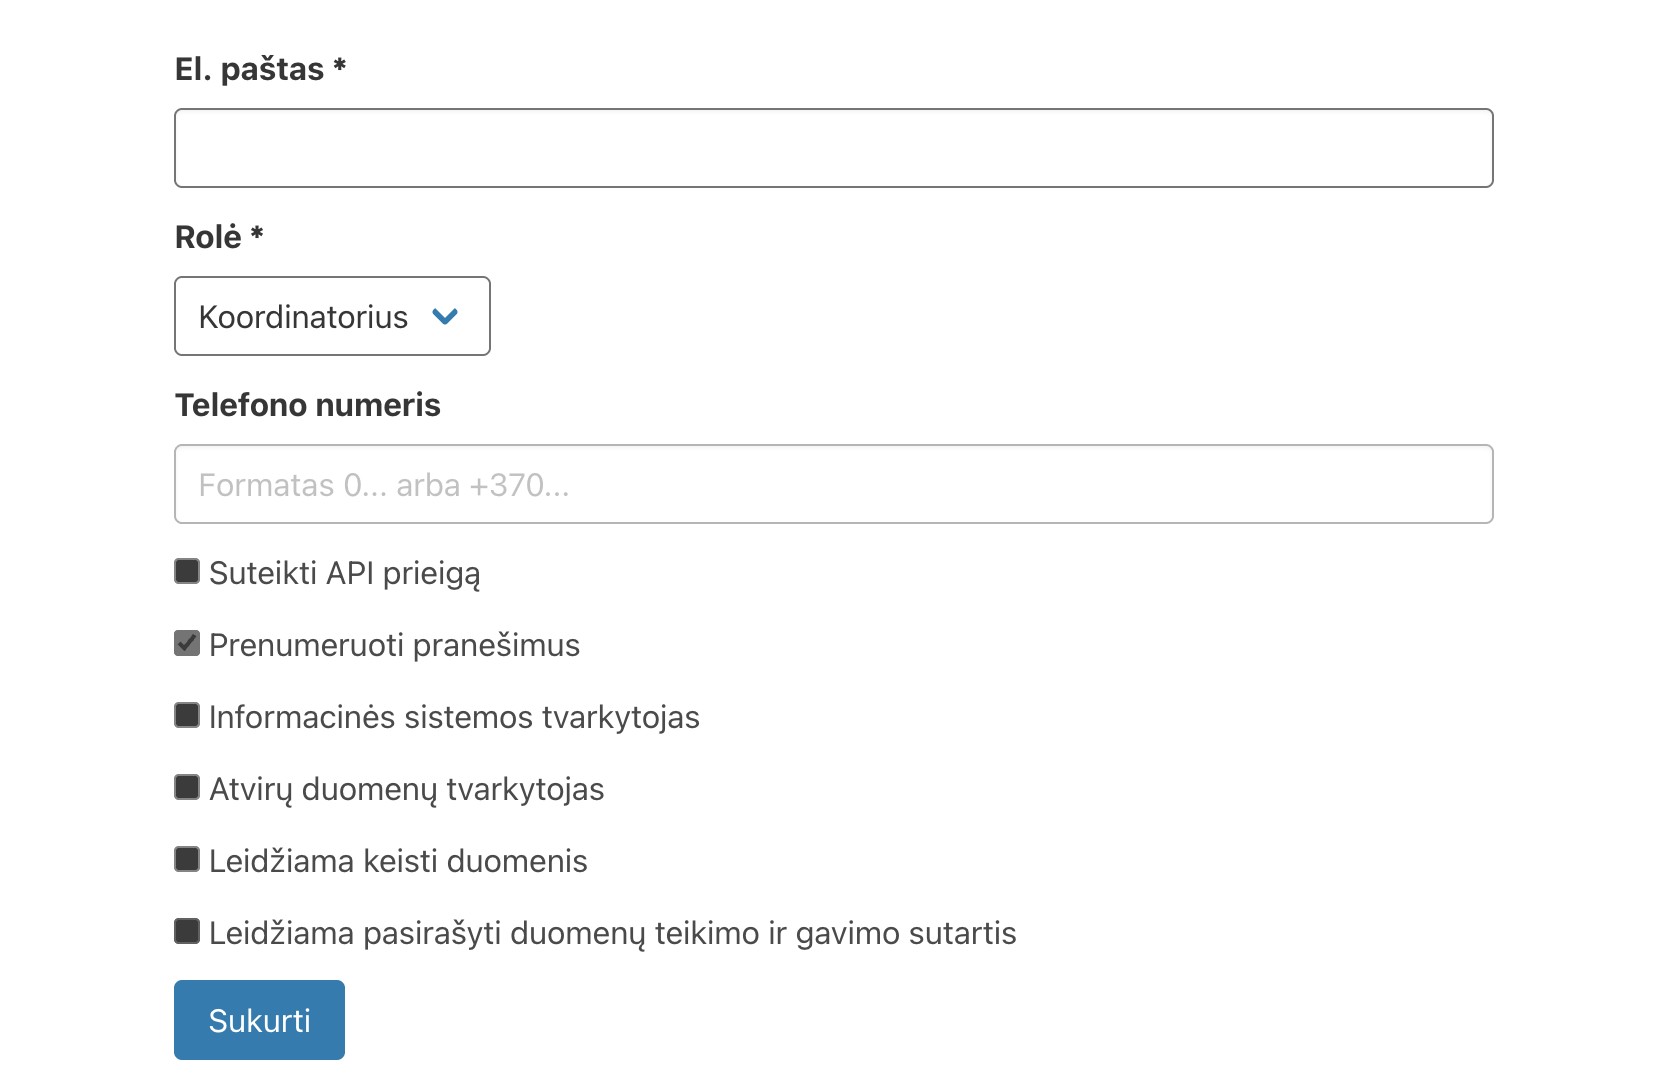
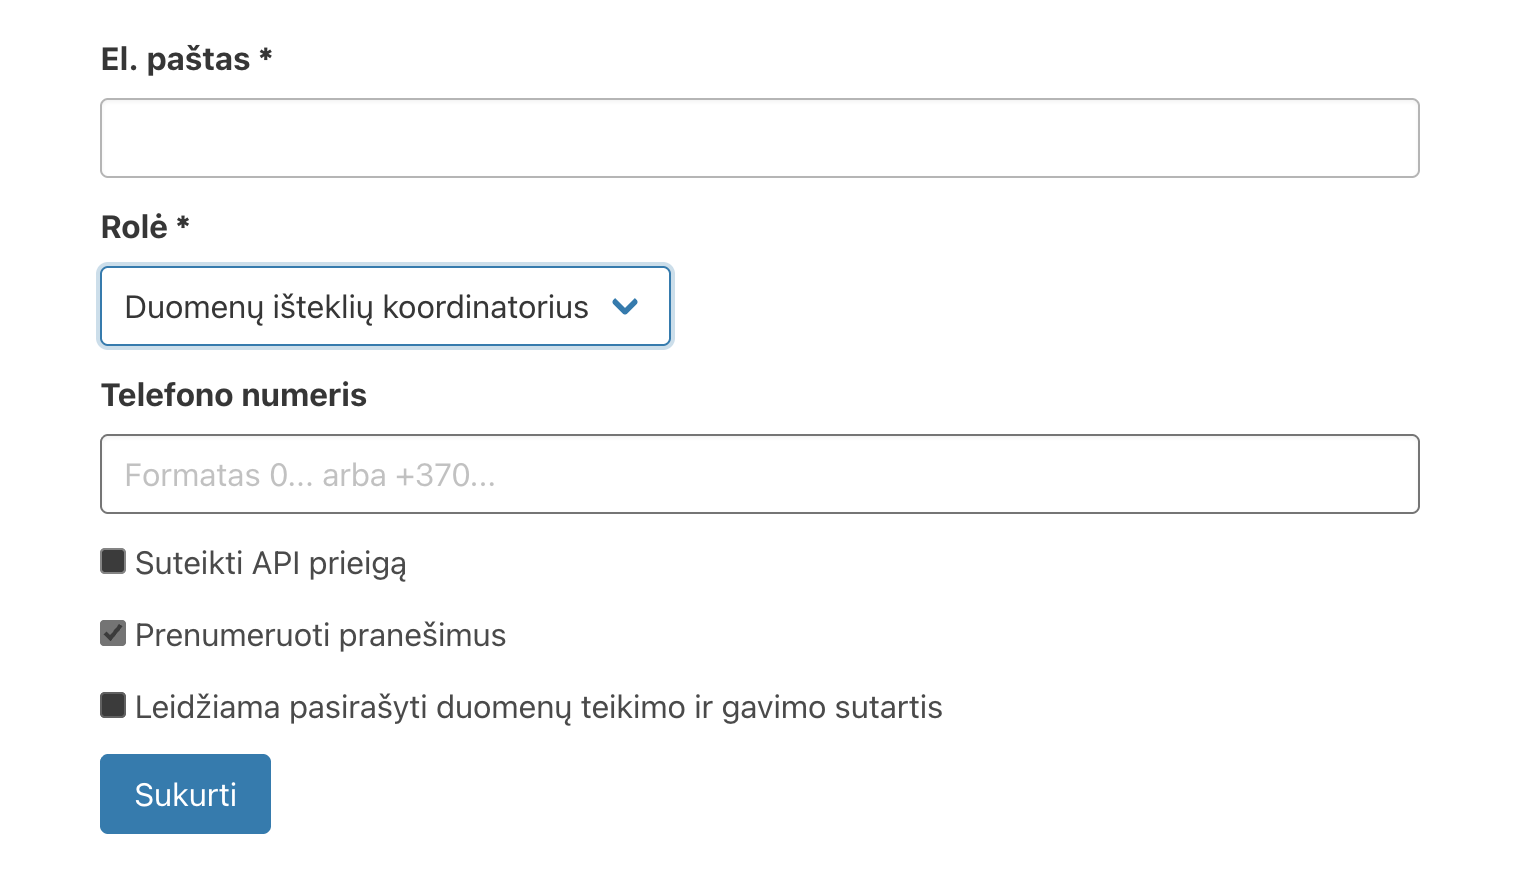
Changing pictures of new representative form with new roles, explaining what each role can manage (#83)

diff --git a/vadovas/katalogas.rst b/vadovas/katalogas.rst
@@ -339,7 +339,10 @@ Tvarkytojų peržiūros duomenys:
 
 - **Telefonas:** Telefono numeris.
 
-- **Rolė:** paskyrų naudotojų rolės. 
+- **Rolė:** paskyrų naudotojų rolės. Šiam laukui taikomi apribojimai.
+
+  - Atvirų duomenų koordinatorius / tvarkytojas. Gali tvarkyti duomenų išteklius, kurių prieigos teisė yra vieša arba apribota, neturi teisės tvarkyti informacinių sistemų.
+  - Duomenų išteklių koordinatorius / tvarkytojas. Gali tvarkyti visus duomenų išteklius, įskaitant neviešus duomenis ir informacines sistemas.
 
 \> **Pridėti naują organizacijos koordinatorių / tvarkytoją:**
 
